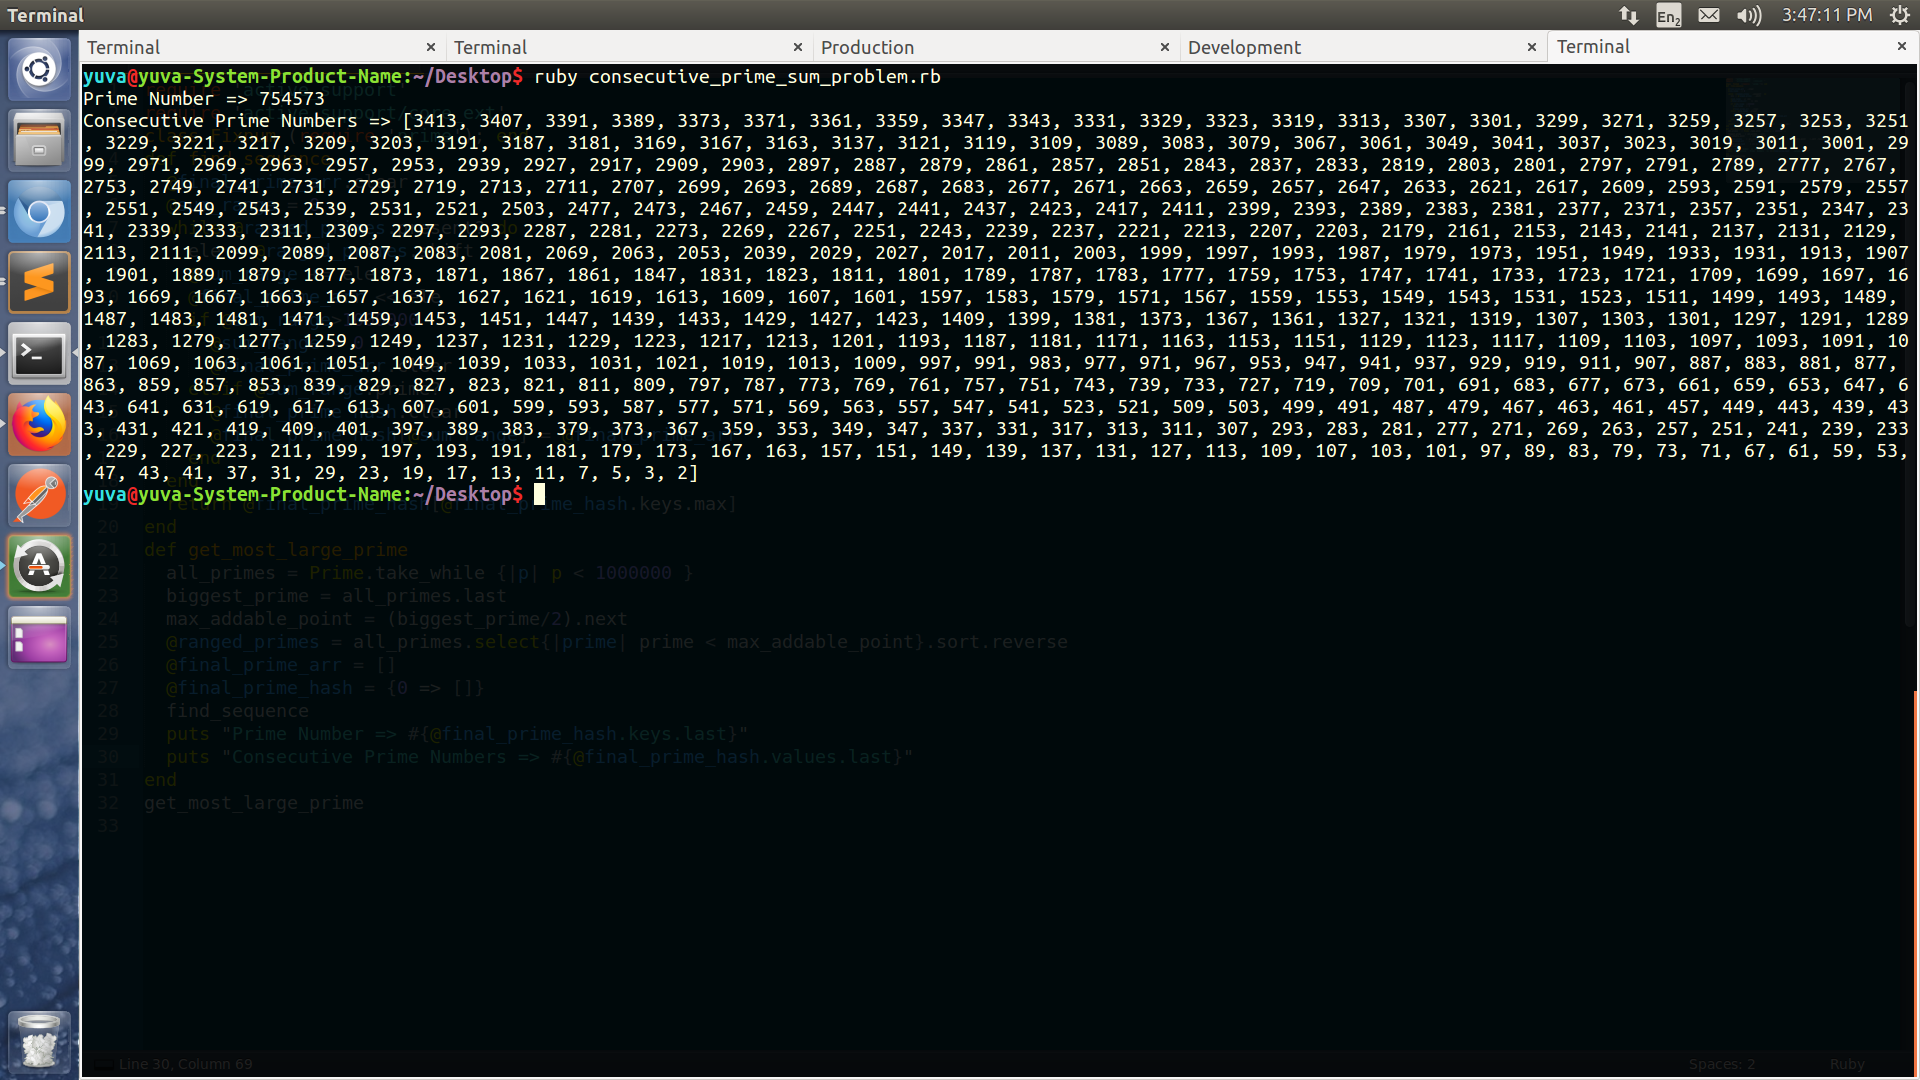
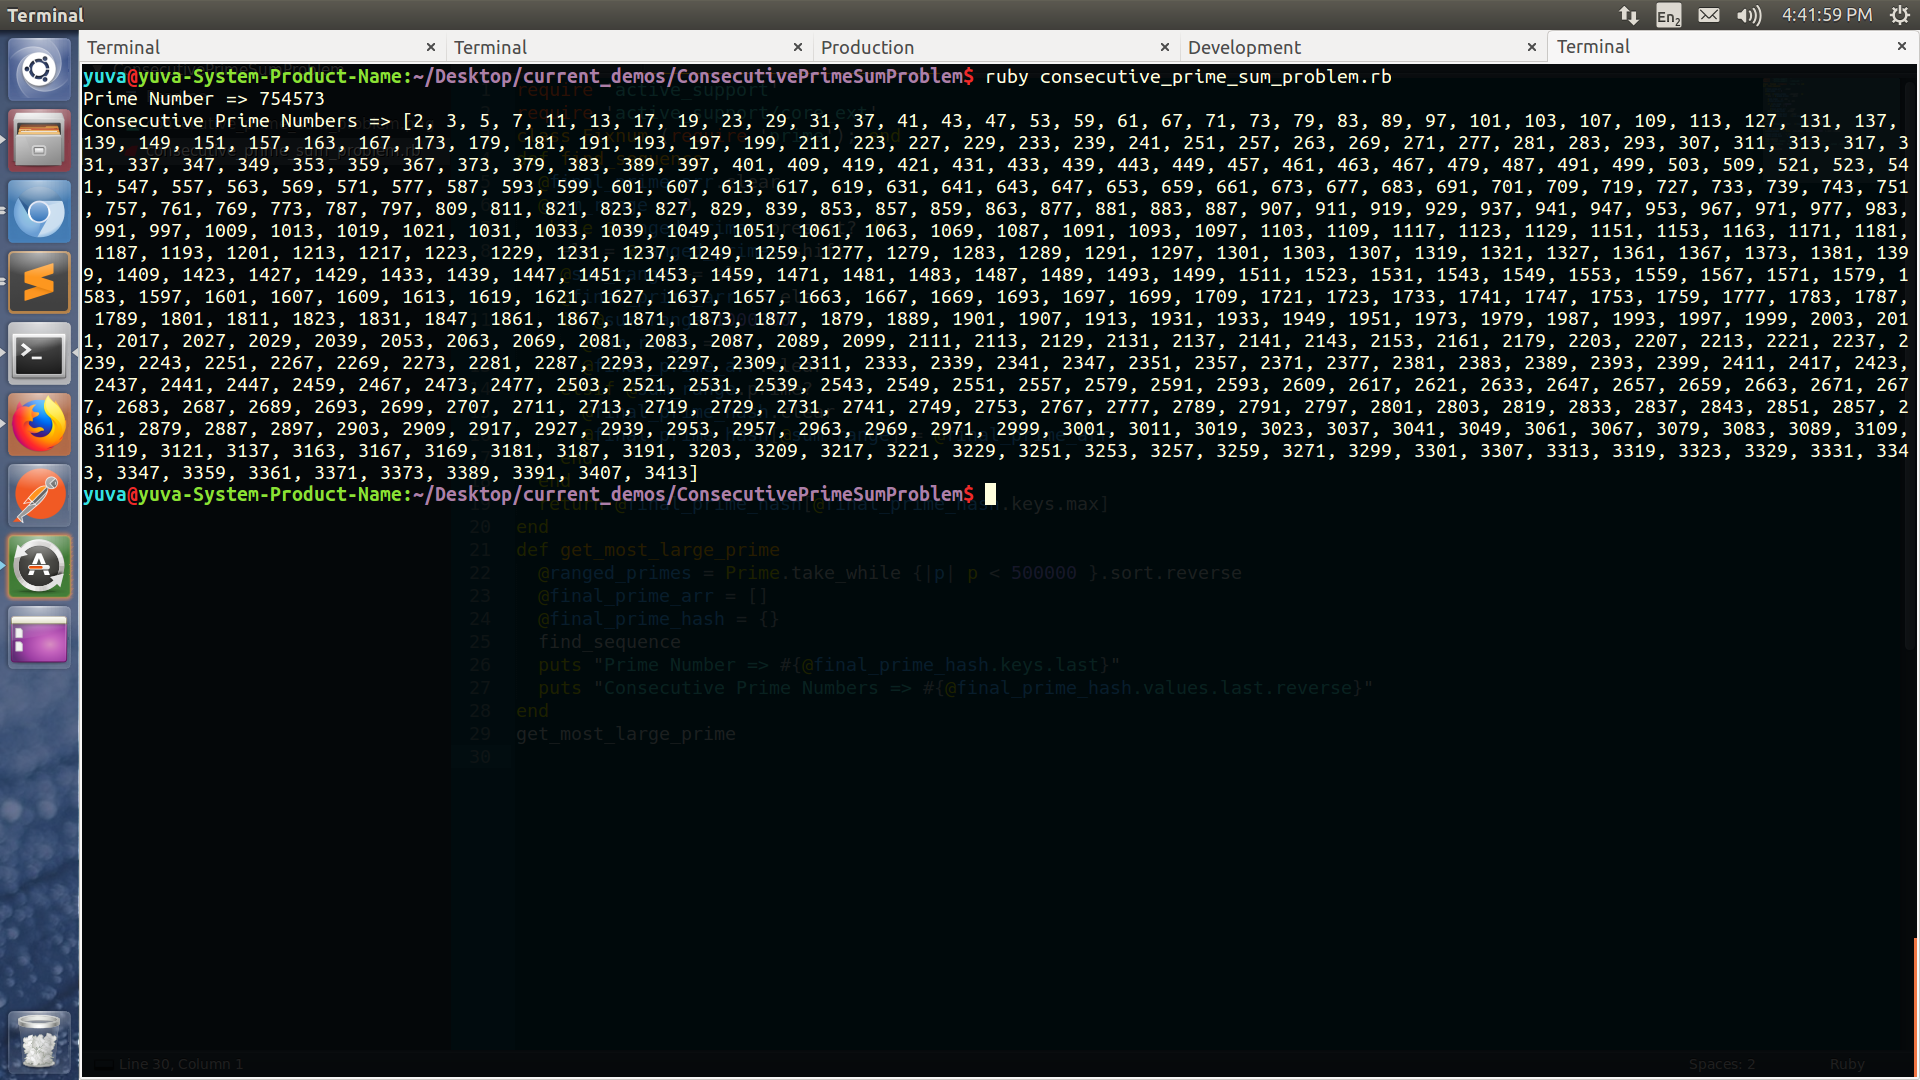
Improvement#1

diff --git a/consecutive_prime_sum_problem.rb b/consecutive_prime_sum_problem.rb
@@ -19,14 +19,11 @@ def find_sequence
   return @final_prime_hash[@final_prime_hash.keys.max]
 end
 def get_most_large_prime
-  all_primes = Prime.take_while {|p| p < 1000000 }
-  biggest_prime = all_primes.last
-  max_addable_point = (biggest_prime/2).next
-  @ranged_primes = all_primes.select{|prime| prime < max_addable_point}.sort.reverse
+  @ranged_primes = Prime.take_while {|p| p < 500000 }.sort.reverse
   @final_prime_arr = []
-  @final_prime_hash = {0 => []}
+  @final_prime_hash = {}
   find_sequence
   puts "Prime Number => #{@final_prime_hash.keys.last}"
-  puts "Consecutive Prime Numbers => #{@final_prime_hash.values.last}"
+  puts "Consecutive Prime Numbers => #{@final_prime_hash.values.last.reverse}"
 end
 get_most_large_prime
